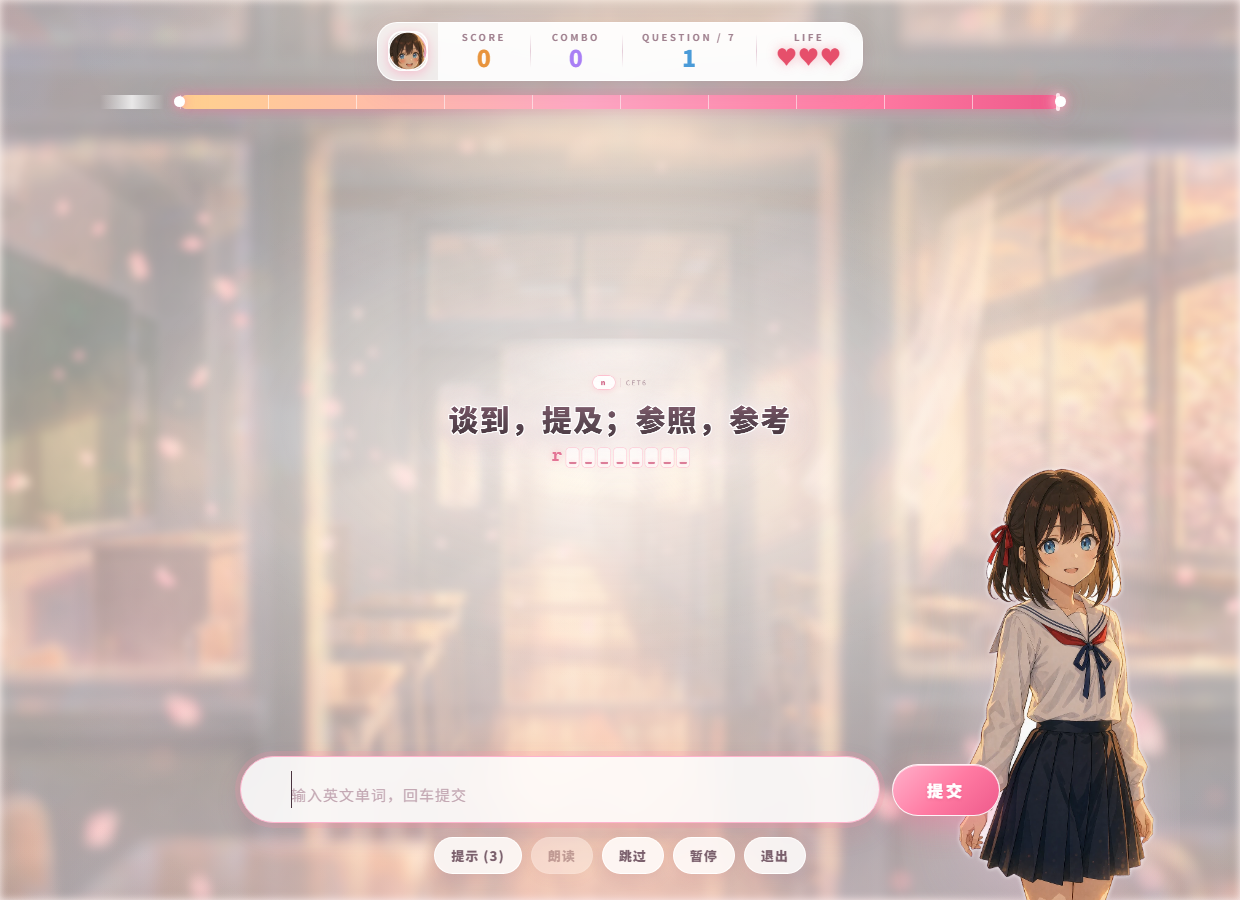
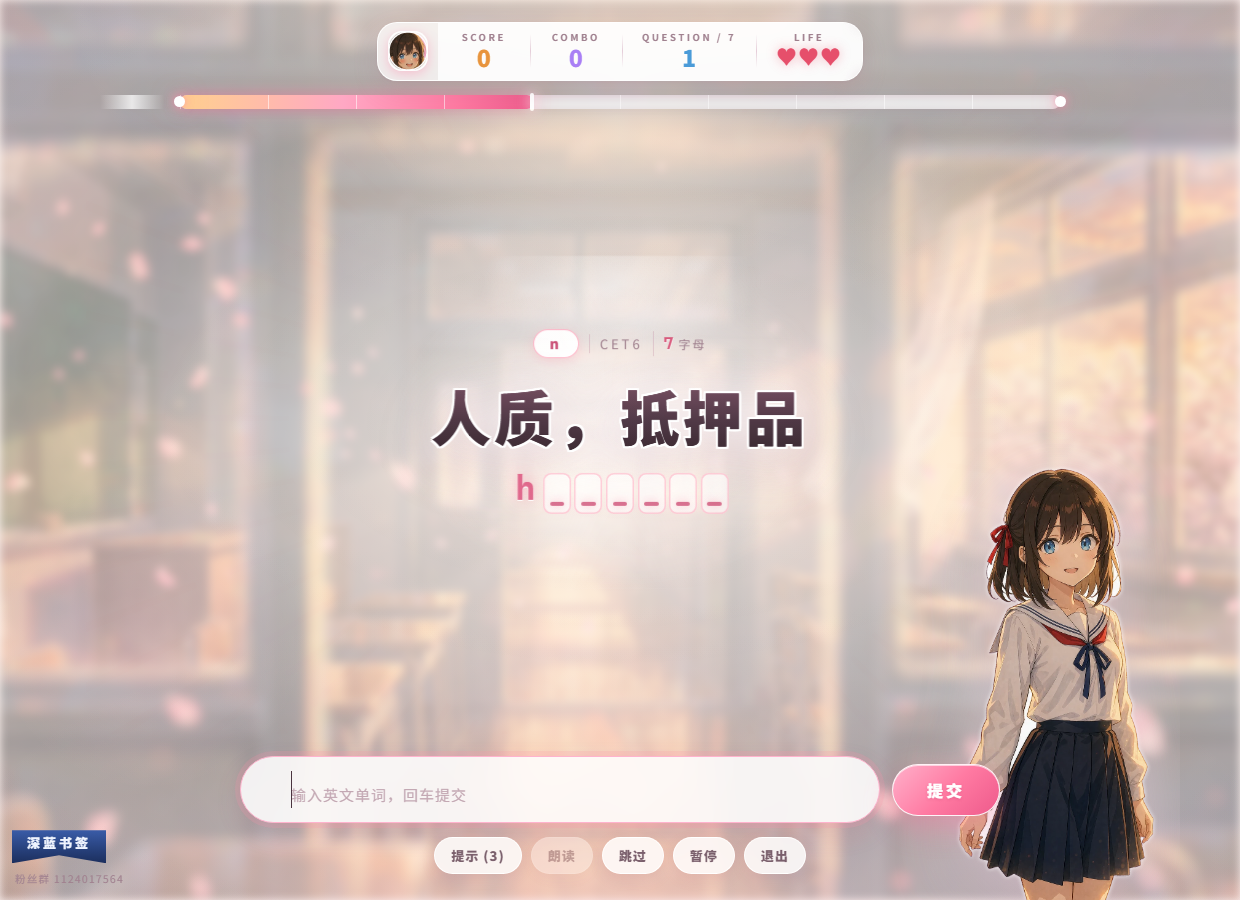
加作者水印：左下角「深蓝书签」书签牌（B站主页 + 粉丝群一键复制）
- .wm 固定在左下角，pointer-events:none 只给两个字面控件开，不挡任何点击
- 书签牌做成真书签形状（clip-path 燕尾口）；名字 target=_blank 开 B 站主页
- 粉丝群号点击复制（clipboard API + execCommand 兜底，局域网 http 也能用）
- 标题屏跑马灯满宽贴底，用 body:has(#s-title.show) .wm{bottom:64px} 抬上去
- 玩法弹窗与跑马灯补上出品信息；README/使用说明补作者section
- 新增探针 public/_wmprobe.html：视口内 / 可点击 / 不压任何文字按钮（15 组全绿）
- 重出两个绿色包（33.3MB / 1.9MB）并同步桌面，docs/ui-*.png 全部换成带水印版本

diff --git a/public/_wmprobe.html b/public/_wmprobe.html
@@ -1,0 +1,125 @@
+<!DOCTYPE html>
+<html><head><meta charset="utf-8"><title>wmprobe</title>
+<style>html,body{margin:0;background:#111;color:#0f0;font:13px/1.6 Consolas,monospace}
+iframe{position:absolute;left:-4000px;top:0}
+pre{padding:12px}</style></head>
+<body>
+<iframe id="f" src="/"></iframe>
+<pre id="out">running…</pre>
+<script>
+/* 用法： /_wmprobe.html?w=1240&h=900&scene=title
+   水印（.wm）不该压住任何「有字或有按钮」的界面元素。
+   只和真实会同时出现的东西比 —— 水印是 fixed 的，会在每屏都在。 */
+const Q = new URLSearchParams(location.search);
+const VW = parseInt(Q.get('w') || '1240', 10);
+const VH = parseInt(Q.get('h') || '900', 10);
+const SCENE = Q.get('scene') || 'title';
+
+const f = document.getElementById('f');
+f.style.width = VW + 'px';
+f.style.height = VH + 'px';
+const out = document.getElementById('out');
+const lines = [];
+let fail = 0;
+function ok(name, cond, extra) {
+  if (cond) lines.push('  ok ' + name);
+  else { fail++; lines.push('  FAIL ' + name + (extra !== undefined ? '  -> ' + extra : '')); }
+}
+const R = el => el.getBoundingClientRect();
+function inter(a, b) {
+  const w = Math.min(a.right, b.right) - Math.max(a.left, b.left);
+  const h = Math.min(a.bottom, b.bottom) - Math.max(a.top, b.top);
+  return (w > 0.5 && h > 0.5) ? Math.round(w) + 'x' + Math.round(h) : null;
+}
+function name(el) {
+  return el.id ? '#' + el.id : (el.className ? '.' + String(el.className).split(' ')[0] : el.tagName);
+}
+
+let tries = 0;
+const iv = setInterval(function () {
+  tries++;
+  let w, d;
+  try { w = f.contentWindow; d = f.contentDocument; } catch (e) { return; }
+  if (!w || !d || !w.App || !w.App.Words || !w.App.Words.loaded || !d.querySelector('#s-title')) {
+    if (tries > 200) { clearInterval(iv); document.title = 'TIMEOUT'; }
+    return;
+  }
+  clearInterval(iv);
+  Promise.resolve()
+    .then(function () { return run(w, d); })
+    .then(function () { document.title = 'OK ' + SCENE + ' ' + VW + 'x' + VH + ' fail=' + fail; },
+          function (e) { document.title = 'ERR ' + e.message; });
+}, 50);
+
+function run(w, d) {
+  const App = w.App;
+  const st = d.createElement('style');
+  st.textContent = '*,*::before,*::after{animation:none!important;transition:none!important}';
+  d.head.appendChild(st);
+
+  if (SCENE === 'game') {
+    App._show('s-title'); App._renderTitle();
+    App.startFlow('classic'); App.confirmReady();
+    App.paintApproach(0.35); App.fitVerse();
+  } else if (SCENE === 'over') {
+    App._show('s-title'); App._renderTitle();
+    App.startFlow('classic'); App.confirmReady();
+    App.paintApproach(0.35); App.fitVerse();
+    App.onTimeout(); App.onTimeout(); App.onTimeout();
+  } else {
+    App._show('s-title'); App._renderTitle();
+  }
+
+  const wm = d.getElementById('wm');
+  ok('水印存在', !!wm);
+  if (!wm) return;
+  const r = R(wm);
+  lines.push('  水印矩形 ' + [r.left, r.top, r.right, r.bottom].map(v => Math.round(v)).join(', '));
+
+  // ① 必须完整落在窗口里（不能有一角被切掉）
+  ok('水印完整在视口内',
+    r.left >= 0 && r.top >= 0 && r.right <= VW + 0.5 && r.bottom <= VH + 0.5,
+    [r.left, r.top, r.right, r.bottom].join(','));
+
+  // ② 两个字面控件都点得到（不能有东西盖在上面）
+  ['wm-tag', 'wm-sub'].forEach(function (cls) {
+    const t = d.querySelector('.' + cls);
+    const rr = R(t);
+    const cx = (rr.left + rr.right) / 2, cy = (rr.top + rr.bottom) / 2;
+    const hit = d.elementFromPoint(cx, cy);
+    ok('.' + cls + ' 中心点可点', !!hit && (hit === t || t.contains(hit) || hit.contains(t)),
+      hit ? name(hit) : 'null');
+  });
+
+  // ③ 别压住「有字或有按钮」的东西
+  // 注意不能用 .car-dots / .ticker-run 这类「撑满一行的容器」当对象：
+  // 它们的盒子和可见内容不重合（圆点居中、容器全宽），拿盒子比会误报。
+  // 只比真正的可见单元（.car-dot 单颗圆点、具体按钮、具体文字块）。
+  const targets = d.querySelectorAll(
+    '.ticker, .ttl-tools .tool-pill, .cf-info, #cfBest, #cfPlays, #btnDecide,' +
+    '.car-arrow, .car-dot, .hud, .hud-cell, .timebar, .answer-row, #gInput, #btnSubmit,' +
+    '.ops .btn, .card, .readycard, .over-ops .btn, .over-head, .over-grid, .ow-list,' +
+    '.set-list, .pg-title, #chara, .toast, .pausecard'
+  );
+  let hitList = [];
+  targets.forEach(function (t) {
+    if (t.hidden) return;
+    const cs = getComputedStyle(t);
+    if (cs.display === 'none' || cs.visibility === 'hidden') return;
+    if (t.closest && t.closest('.wm')) return;
+    const tr = R(t);
+    const a = inter(r, tr);
+    if (a) {
+      hitList.push(name(t) + '(' + a + ' @ ' +
+        [tr.left, tr.top, tr.right, tr.bottom].map(v => Math.round(v)).join(',') + ')');
+    }
+  });
+  ok('水印不压任何文字/按钮', hitList.length === 0, hitList.join(' '));
+
+  const res = d.createElement('pre');
+  res.textContent = lines.join('\n');
+  d.body.appendChild(res);
+  out.textContent = lines.join('\n');
+}
+</script>
+</body></html>

diff --git a/public/css/style.css b/public/css/style.css
@@ -2547,3 +2547,56 @@ body.car-solo .car-view{padding:8px 3px}
   .pausecard.wide{min-width:0; width:100%}
   .pausecard{padding:22px 18px}
 }
+
+/* ============================================================
+   13. 作者水印（深蓝书签）
+   ------------------------------------------------------------
+   固定在左下角的小书签：牌子叫「深蓝书签」，就真做成一枚深蓝
+   书签缎带 —— 下摆中间向上收一个燕尾口（clip-path 三角缺口）。
+     · 点书签名 → 打开 B 站主页 space.bilibili.com/484110391
+     · 点粉丝群 → 复制群号 1124017564
+   容器 pointer-events:none，只有两个控件本身可点，
+   永远不挡底下界面的任何点击；层级 700 压在内容之上、
+   弹窗(800)/特效(940)/Toast(950)之下。
+   ============================================================ */
+.wm{
+  position:fixed; left:12px; bottom:12px; z-index:700;
+  display:flex; flex-direction:column; align-items:flex-start; gap:7px;
+  pointer-events:none;
+}
+.wm-tag{
+  pointer-events:auto;
+  display:inline-block; line-height:1;
+  padding:6px 15px 14px;
+  font-size:13px; font-weight:800; letter-spacing:3px;
+  color:#f0f5ff; text-decoration:none;
+  background:linear-gradient(180deg, #3a5ca8 0%, #263f79 62%, #1c2f5e 100%);
+  clip-path:polygon(0 0, 100% 0, 100% 100%, 50% calc(100% - 8px), 0 100%);
+  filter:drop-shadow(0 3px 9px rgba(28,47,94,.35));
+  transition:transform .14s, filter .14s;
+}
+.wm-tag:hover{
+  transform:translateY(-2px);
+  filter:drop-shadow(0 6px 14px rgba(28,47,94,.45));
+  color:#fff;
+}
+.wm-sub{
+  pointer-events:auto;
+  font:inherit; font-size:10.5px; letter-spacing:1.2px;
+  color:var(--dim); background:none; border:0; padding:1px 3px;
+  cursor:pointer;
+  transition:color .14s;
+}
+.wm-sub:hover{color:var(--ink); text-decoration:underline}
+
+/* 标题屏的跑马灯铺满整个窗口底部，水印抬到它上方，别压住滚动字幕
+   （跑马灯高约 29px + 屏幕内边距 26px，取 64px 稳妥） */
+body:has(#s-title.show) .wm{bottom:64px}
+
+/* 超矮窗口：整体收一号 */
+@media (max-height:560px){
+  .wm{left:8px; bottom:8px; gap:5px}
+  body:has(#s-title.show) .wm{bottom:58px}
+  .wm-tag{font-size:11.5px; padding:4px 11px 11px; letter-spacing:2px}
+  .wm-sub{font-size:9.5px}
+}

diff --git a/public/index.html b/public/index.html
@@ -85,8 +85,8 @@
 
     <div class="ticker" aria-hidden="true">
       <div class="ticker-run">
-        <span>★ 看释义 · 拼单词 ★ 答对连击加分 ★ 时间条走完 = 单词撞到你脸上 ★ 错过的词自动进错题本 ★ 四档难度 从普通到地狱 ★ 全离线 数据只存本机 ★</span>
-        <span>★ 看释义 · 拼单词 ★ 答对连击加分 ★ 时间条走完 = 单词撞到你脸上 ★ 错过的词自动进错题本 ★ 四档难度 从普通到地狱 ★ 全离线 数据只存本机 ★</span>
+        <span>★ 看释义 · 拼单词 ★ 答对连击加分 ★ 时间条走完 = 单词撞到你脸上 ★ 错过的词自动进错题本 ★ 四档难度 从普通到地狱 ★ 全离线 数据只存本机 ★ 出品：深蓝书签 ★</span>
+        <span>★ 看释义 · 拼单词 ★ 答对连击加分 ★ 时间条走完 = 单词撞到你脸上 ★ 错过的词自动进错题本 ★ 四档难度 从普通到地狱 ★ 全离线 数据只存本机 ★ 出品：深蓝书签 ★</span>
       </div>
     </div>
   </section>
@@ -235,6 +235,12 @@
     </div>
   </section>
 
+</div>
+
+<!-- ============ 作者水印：深蓝书签（B站）· 粉丝群 ============ -->
+<div class="wm" id="wm">
+  <a class="wm-tag" href="https://space.bilibili.com/484110391" target="_blank" rel="noopener" title="B站主页 · space.bilibili.com/484110391">深蓝书签</a>
+  <button class="wm-sub" id="wmGroup" title="点击复制群号">粉丝群 1124017564</button>
 </div>
 
 <div class="fx" id="fx" aria-hidden="true"></div>

diff --git a/public/js/app.js b/public/js/app.js
@@ -1589,8 +1589,35 @@ function bindEvents() {
       '<b>四档难度</b>：普通 / 困难 / 激难 / 地狱 —— 决定时限、命数、提示次数和词长。',
       '<b>题量</b>：7 / 10 / 16 题，答完就是通关。',
       '',
-      '错过的词会自动进「错题本」，可一键重练。'
+      '错过的词会自动进「错题本」，可一键重练。',
+      '',
+      '出品：<b>深蓝书签</b> · <a href="https://space.bilibili.com/484110391" target="_blank" rel="noopener">space.bilibili.com/484110391</a><br>粉丝群：<b>1124017564</b>（左下角水印点击即复制）'
     ].join('<br>'));
+  };
+
+  // 作者水印：点「粉丝群」复制群号（127.0.0.1 是安全上下文走剪贴板 API，
+  // 局域网 IP 分享时不是 https，得退回 execCommand 兜底）
+  $('#wmGroup').onclick = async function () {
+    SFX.click();
+    const num = '1124017564';
+    let copied = false;
+    try {
+      await navigator.clipboard.writeText(num);
+      copied = true;
+    } catch (e) {
+      try {
+        const ta = document.createElement('textarea');
+        ta.value = num;
+        ta.style.position = 'fixed';
+        ta.style.opacity = '0';
+        document.body.appendChild(ta);
+        ta.select();
+        copied = document.execCommand('copy');
+        ta.remove();
+      } catch (e2) { copied = false; }
+    }
+    if (copied) toast('粉丝群号已复制：' + num);
+    else toast('复制失败，群号：' + num, true);
   };
 
   // 准备屏

diff --git a/tools/build-pc-zip.py b/tools/build-pc-zip.py
@@ -118,6 +118,16 @@ CET Go —— 电脑版（绿色免安装）
   node.exe          自带的运行环境（只有完整版有）
   public\\           界面和游戏本体
   data\\             词库 + 你的记录
+
+
+关于作者
+------------------------------------------------------------
+  深蓝书签
+  B 站主页：https://space.bilibili.com/484110391
+  粉丝群：1124017564
+
+  （游戏左下角那枚蓝色书签就是入口：点名字开 B 站主页，
+   点粉丝群号直接复制。）
 """
 
 

diff --git a/README.md b/README.md
@@ -106,6 +106,7 @@ bash tools/shot.sh              # 各屏幕截图工作台
 |---|---|
 | `_gprobe.html` | 各屏在 15 种窗口尺寸下**不溢出**（含「贴脸放大」那一帧的最坏情况） |
 | `_itest.html` | 主页交互：轮播、翻卡、开局、判定规则（重试/超时/字母数）、按钮尺寸、存档落盘 |
+| `_wmprobe.html` | 左下角作者水印：完整在视口内、两个字面控件点得到、不压住任何文字或按钮 |
 | `_shot.html` · `_m.html` | 截图与盒模型排查 |
 
 结论写进页面 `<title>`，用 `--dump-dom` 抓出来比对。**断言只写「真实会出现的状态」** —— 比如「最长的单个词条」，而不是「最长释义 + 最长单词」这种拼出来的组合，否则红线没人能修。
@@ -114,14 +115,12 @@ bash tools/shot.sh              # 各屏幕截图工作台
 
 - **`.verse` 的高度不能用 `scrollHeight`**：题面背后那块柔光是 180% 高的绝对定位元素，会把 `scrollHeight` 顶到布局盒的 1.4 倍。拿它算「需要多少高度」等于每道题都多缩 40%。要用 `offsetHeight`，并且取舞台的**内容盒**。
 - **`will-change:transform` 会改 `offsetParent`**：轮播轨道加了它之后，子元素的 `offsetLeft` 参照系就变了，居中量要按 `getBoundingClientRect` 的中心差重算。
-- **`aapt2 link` 的主资源必须是位置参数**：用 `-R res.zip` 传会被当成 overlay，报 `resource style/AppTheme does not override an existing resource`。
-- **`resources.arsc` 不能压缩**：targetSdk 30+ 要求它 store 进 APK。`jar uf` 会重写整个归档并重新压缩它 —— 得用 Python `zipfile` 的 `'a'` 模式只追加。
-- **WebView 里不能用 `file://`**：不透明来源会让 `fetch` 被 CORS 拦、`localStorage` 直接不可用。改成给 WebView 一个假域名，在 `shouldInterceptRequest` 里把整棵路径映射到 assets。
-- **系统「字体大小」会改 WebView 默认字号**，`clamp()` 算出来的题面尺寸全废 —— 得 `setTextZoom(100)`。
-- **XML 注释里不能有两个连续的减号**，`aapt2` 会报 `not well-formed`。
+- **碰撞检测不能用「撑满一行的容器」当对象**：模式指示点 `.car-dots` 是全宽 flex（圆点居中），拿它的盒子去比，水印永远被判成压住了它 —— 要比就比真正的可见单元 `.car-dot`。
 - **同名缩写词的句点**：`a.m` / `B.C.` 这类词的句点在提示掩码里必须**直接亮出来**而不是混进待填槽 —— 判分不忽略句点（`am` 是错的），句点若占一个槽，槽位数就比「N 字母」多，玩家按槽去数必错。
+- **水印别跟着界面元素走**：`.wm` 是 `position:fixed`、`pointer-events:none`（只给字面控件开），层级压在内容之上、弹窗之下；标题屏底下那条跑马灯是满宽贴底的，所以用 `body:has(#s-title.show) .wm{bottom:64px}` 把它抬到跑马灯上方。
 
 ## 说明
 
 - 词库是 CET4 / CET6 词汇表；背景与看板娘立绘为 AI 生成。
+- 作者：**深蓝书签** · B站 [space.bilibili.com/484110391](https://space.bilibili.com/484110391) · 粉丝群 **1124017564**
 - 未指定开源许可；代码随意取用。
